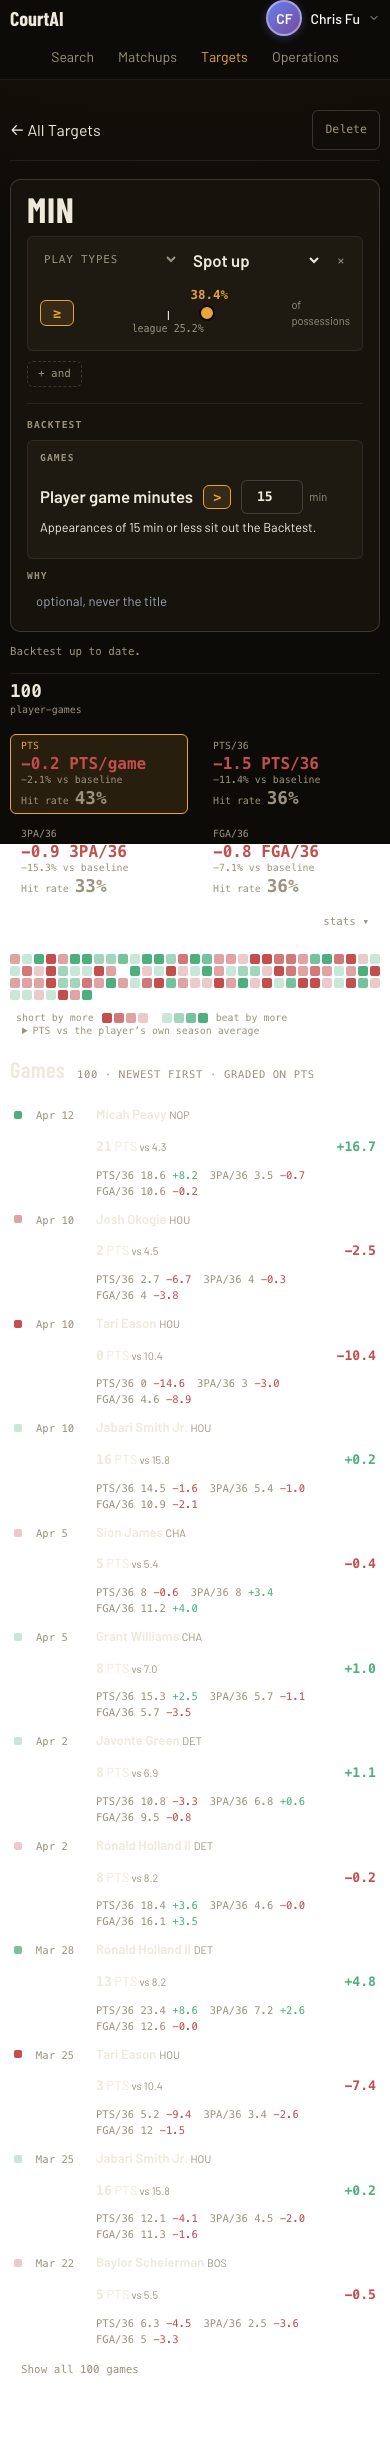
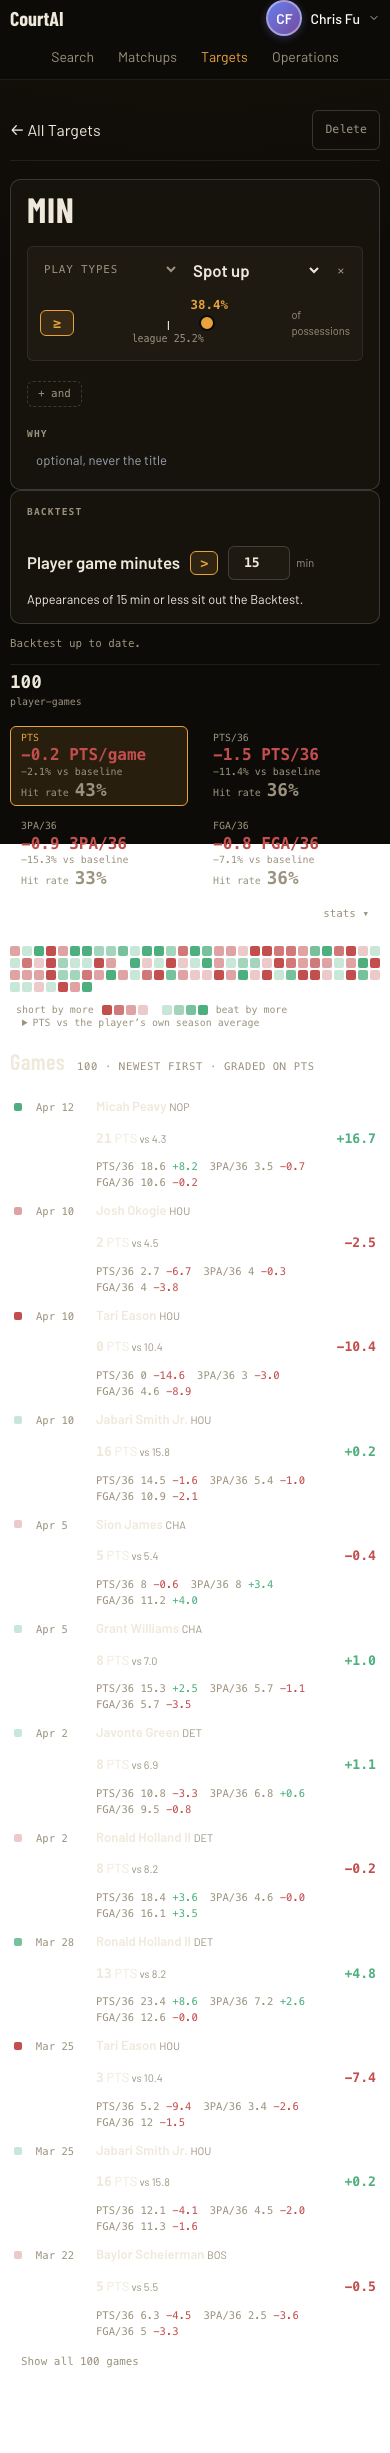
Refresh PR 112 screenshots for the separate Backtest card

diff --git a/docs/screenshots/pr-112/README.md b/docs/screenshots/pr-112/README.md
@@ -9,10 +9,8 @@ phone 390×844, full page.
   `Backtest · season to date · excludes games ≤ 15 min`. The record header
   shows `player-games` with no minutes tile, and no Condition line is repeated
   beneath the heading.
-- `workbench-*` — `/targets/10`, the same Target. The Qualifier and the
-  opponent Conditions sit above `+ and`; below it a `BACKTEST` section holds
-  the standing minutes floor. The Lab goes straight from `Backtest up to date.`
-  to the evidence.
-
-The floor is always on screen. Empty reads `off` and applies nothing; a figure
-sets the floor.
+- `workbench-*` — `/targets/10`, the same Target. Two cards: the opponent card
+  holding the Qualifier, the Conditions and Why, and a separate `BACKTEST`
+  card holding the standing minutes floor. The Save row sits beneath both.
+- `workbench-off-desktop` — `/targets/9`, a Target with no floor saved. The
+  Backtest card is still there, reading `off`.
